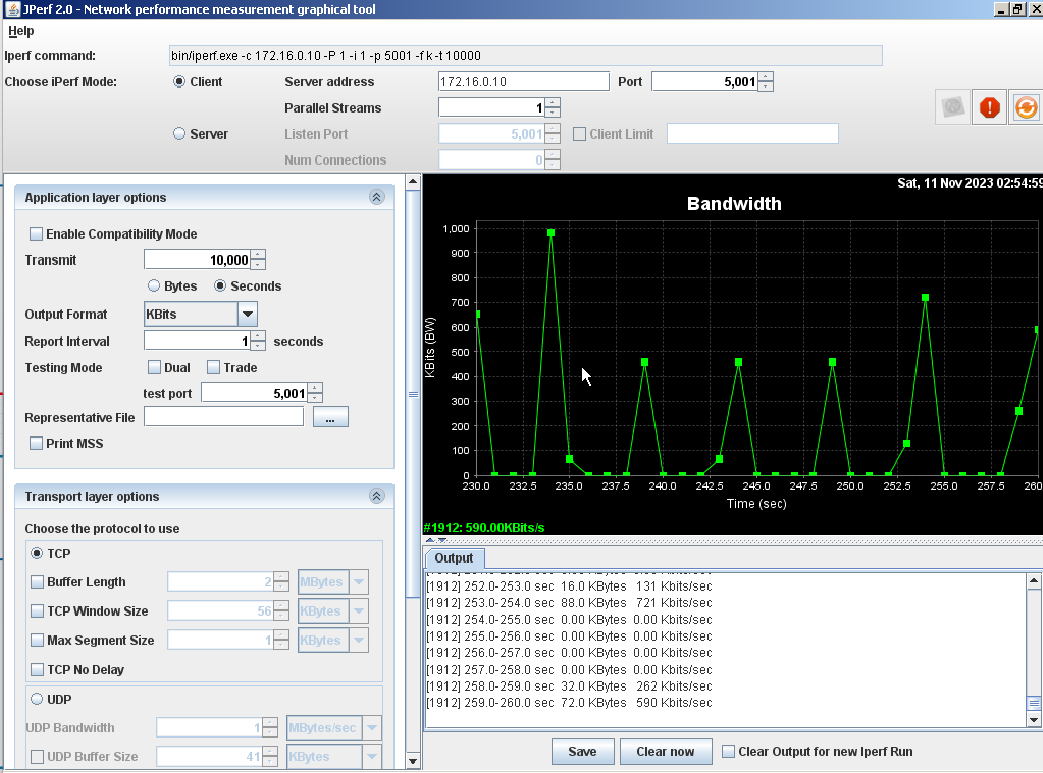
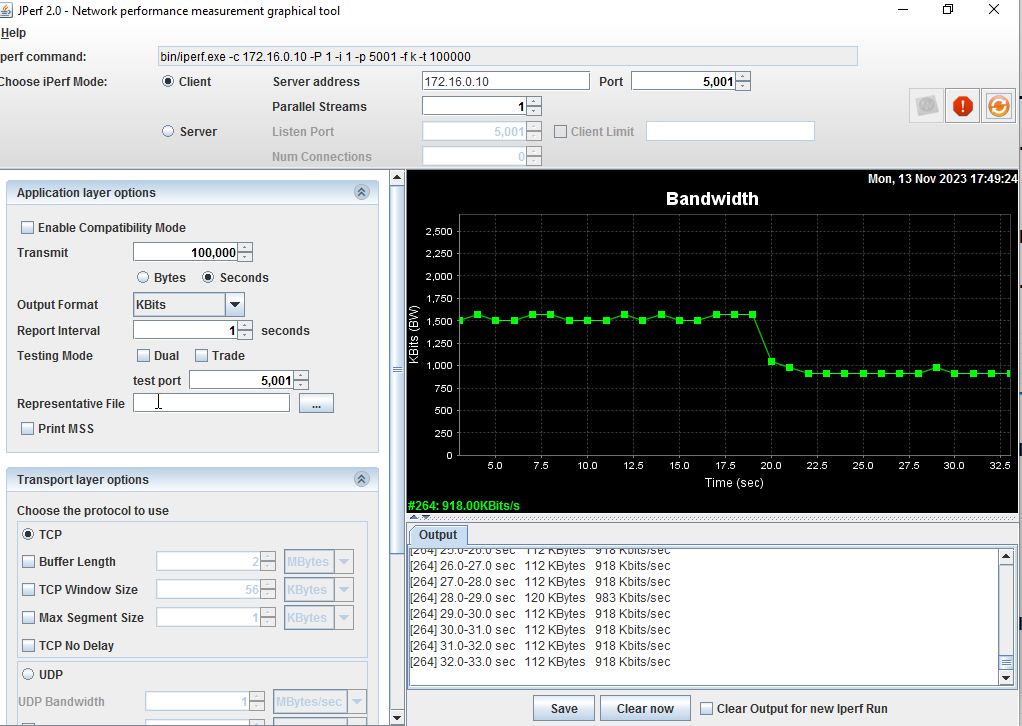
Alterado o readme.md

Changed region(s): [[0.0, 0.0606, 1.0, 1.0], [0.0, 0.0, 1.0, 0.1212], [0.8796, 0.0909, 1.0, 0.1818]]

diff --git a/CCNP 350-401 ENCOR/01 - Architecture/01 - QoS/02 - Limite de Banda - Shapping/README.md b/CCNP 350-401 ENCOR/01 - Architecture/01 - QoS/02 - Limite de Banda - Shapping/README.md
@@ -47,7 +47,7 @@ Também vale ressaltar que na linha 06 da configuração, escolhemos uma taxa de
 
 **3. Aplicação das políticas nas interfaces** <br></br>
 
-Agora nesse ponto temos que escolher a interface que queremos aplicar a limitação de banda. A interface escolhida foi a FastEthernet0/0 no sentido de entrada. <br></br>
+Agora nesse ponto temos que escolher a interface que queremos aplicar a limitação de banda. A interface escolhida foi a Ethernet1/0 no sentido de saída. <br></br>
 
 ![Interface](Imagens/shapping/03-interface.png) <br></br>
 
@@ -63,23 +63,23 @@ Agora vamos acessar o computador de ip 172.16.0.10 do lado do roteador Internet 
 Note que no campo Iperf Command, fica escrito o comando que é utilizado na versão texto do aplicativo. <br></br>
 Logo após irei ligar o aplicativo nos hosts do lado do roteador QoS. Agora iremos iniciar no modo cliente e temos que informar o endereço do servidor que é **172.16.0.10** no campo Server Address. Também no campo transmite irei utilizar **10000** que é a quantidade de pacotes por segundo que devem ser enviados ao servidor. OBS: devemos nos atentar agora que o host 192.168.0.11 está limitado a 1Mbps. <br></br>
 
-![Hosts](Imagens/policing/iperf/02-hosts.png) <br></br>
+![Hosts](Imagens/shapping/iperf/02-hosts.png) <br></br>
 
 Olhando os resultados podemos perceber que alimitação de banda foi aplicada. <br></br>
-![Resultados](Imagens/policing/iperf/03-limitado.png) ![Resultado](Imagens/policing/iperf/04-normal.png) <br></br>
+![Resultados](Imagens/shapping/iperf/03-limitado.png) ![Resultado](Imagens/shapping/iperf/04-normal.png) <br></br>
 
 O gráfico da parte superior representa o host limitado e o gráfico da parte inferior representa o host sem limitação. <br></br>
 
 Mas então não esxistem maneiras de verificação no próprio equipamento ? Sim. Temos alguns comandos que podemos executar para verificar os resultados. <br></br>
 O primeiro comando a ser executo é **show policy-map**. Porém se somente execurtarmos o comando assim, o equipamento vai exibir todas as políticas que estão configuradas. Então devmos executar o comando informando a interface a se analisar, **show policy-map interface f0/0** <br></br>
 
-![Resultado](Imagens/policing/04-verifica01.png) <br></br>
+![Resultado](Imagens/policingshapping/04-verifica01.png) <br></br>
 
 Com esse comando é possível se ver todos os incrementos na politica aplicada na interface. Também é possível se observar quantos pacotes ultrapassaram a taxa especificada e a ação a ser tomada, que no caso é descartar os pacotes que ultrapassam essa taxa. <br></br>
 
 O segundo comando que podemos executar é **show interface f0/0** <br></br>
 
-![Resultado](Imagens/policing/05-verifica02.png) <br></br>
+![Resultado](Imagens/shapping/05-verifica02.png) <br></br>
 
 Nesse comando, é interessante se atentar ao campo **Queing Strategy** que indica qual é a estratégia de enfileiramento aplicada na interface. Podemos notar que aqui está como **Fifo (First In / First Out)** que é o padrão para todas as interfaces. Ou seja, o primeiro pacote que entra é o primeiro que sai. Esse comportamento se mantém assim pois aqui somente limitamos a largura de banda de um host até essa interface. Se tivessemos escolhido algum outro algorítimo de enfileiramento ele apareceria aqui. <br></br>
 
